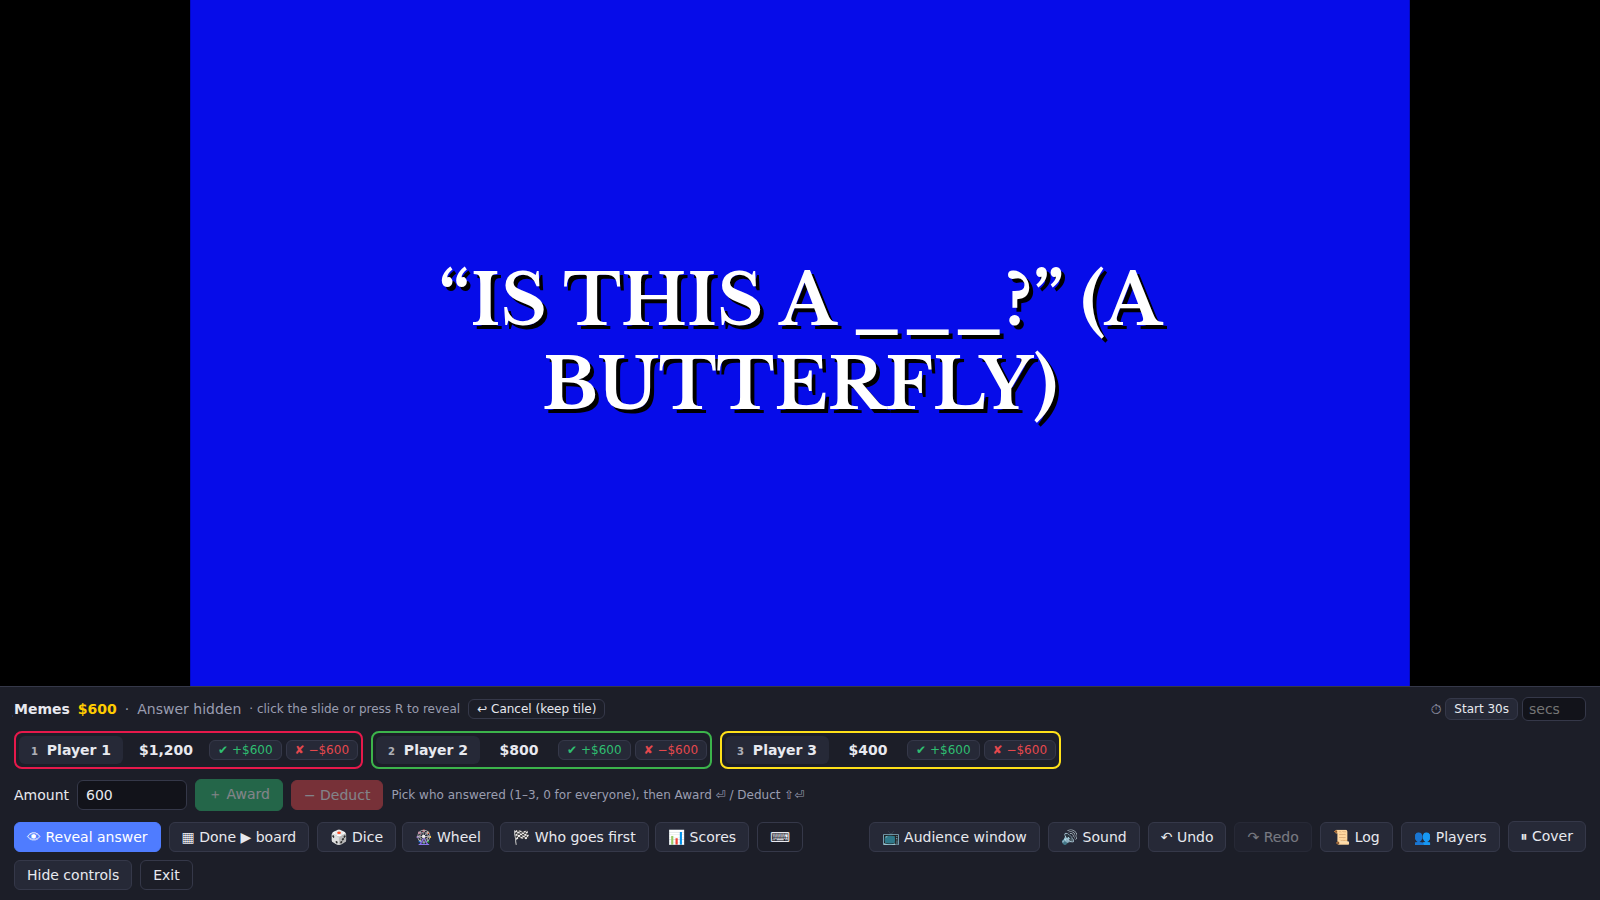
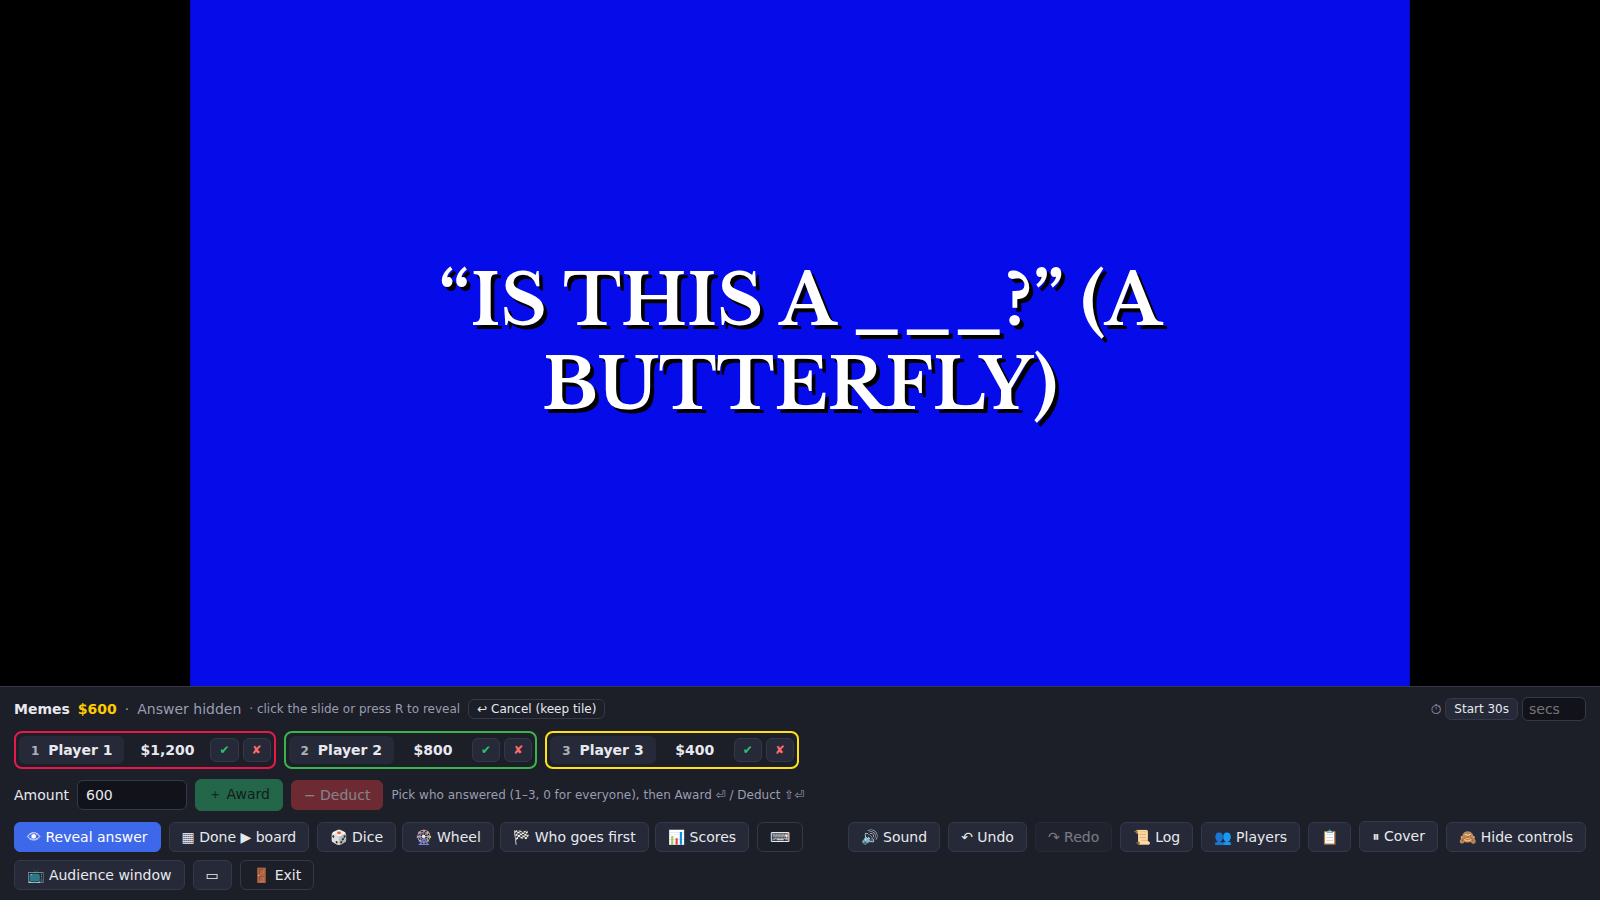
Screenshots: the host panel's 📋 Game rules button; changelog commit hashes
Claude-Session: https://claude.ai/code/session_01Gz5W276C5pKurYPW711L4J

diff --git a/CHANGELOG.md b/CHANGELOG.md
@@ -33,13 +33,13 @@ done, the Unreleased lines move under that day's heading.
 - If the buzzer server turns down a new room, the pre-game card shows its reason in plain words. (9920218)
 - **📋 Game rules mid-game**: a small **📋** next to 👥 Players in the host panel opens the same rules as before the
   game. Changes count at once and are kept with the game in the editor (undoable there). When the game is full,
-  👥 Players offers **Raise Most players to …** next to the greyed-out ＋ Add player.
+  👥 Players offers **Raise Most players to …** next to the greyed-out ＋ Add player. (1d355db)
 - **`Ctrl+Z` / `Ctrl+Y` on the pre-game screen** undo and redo the changes made there (players, rules, buzzers, on
   stream, Daily Doubles placed), the same steps as the editor's 🕘 History, and the list and rules show it at once.
   In a name you've just typed in, `Ctrl+Z` first undoes the typing there, as in the editor. The browser's own undo no
-  longer changes a field behind your back.
+  longer changes a field behind your back. (1d355db)
 - **History's Go there for players and rules**: a step in Play › Players, Game rules, Phone buzzers or On stream now
-  has **Go there**, which opens the ▶ Play screen at that part. (An undo in the editor never starts a game.)
+  has **Go there**, which opens the ▶ Play screen at that part. (An undo in the editor never starts a game.) (1d355db)
 - **The buzzer server limits new rooms**: 6 a minute from one address ("Too many new rooms — wait a minute") and 1000
   a day in all ("The buzzer server is busy today — try again tomorrow"), so nobody can use up its free daily quota.
   (bde9ae8)
@@ -47,13 +47,13 @@ done, the Unreleased lines move under that day's heading.
 ### Changed
 - **The pre-game screen's Start game ▶ and ◀ Back to editor stay at the foot of the window** however long the page
   gets (an open 📋 Game rules fold put Start game far below the fold). On wide screens (1400 px and up) the page is two
-  columns: players and 📱 buzzers on the left; rules, display and on stream on the right.
+  columns: players and 📱 buzzers on the left; rules, display and on stream on the right. (1d355db, 0ab9a9f)
 - **⚙ Game rules is now 📋 Game rules**, so it isn't mixed up with the app's ⚙ Settings next to it. Its fold is a
-  heading of its own (screen readers no longer file the rules under 📱 Phone buzzers).
+  heading of its own (screen readers no longer file the rules under 📱 Phone buzzers). (1d355db)
 - **🔊 Sounds says at the top where the players and rules went**, with a button to the ▶ Play screen (it was a small
-  line at the bottom).
+  line at the bottom). (1d355db, 0ab9a9f)
 - Adding players by typing a name and pressing `Enter`: each player added and named is one step in 🕘 History,
-  called by the name typed ("Added player “Bo”"), and undoing it no longer takes back the name typed before it.
+  called by the name typed ("Added player “Bo”"), and undoing it no longer takes back the name typed before it. (1d355db)
 - **The editor's ⚙ Setup tab is now 🔊 Sounds**, and holds only the sounds. **Players are added on the ▶ Play
   screen** (before the game): add, rename, recolor, pick a picture, reorder and delete them there, and they're kept
   with the game for next time (undoable in the editor's 🕘 History). The rules, timers and round intro moved there
@@ -185,15 +185,15 @@ done, the Unreleased lines move under that day's heading.
 
 ### Fixed
 - **A rematch keeps the players' pictures**, and changing the players before it no longer deletes their pictures from
-  the saved game (a picture now only goes when you take it off with −🖼).
+  the saved game (a picture now only goes when you take it off with −🖼). (1d355db)
 - **A game saved with Buzzer mode on plays without it in a copy that has no buzzer server**: no more "📱 Phones off",
   "🔔 Buzzers open" or ↺ Reset buzzers that can't do anything. The 📱 card says Buzzer mode is off here and you pick
-  who answers; the setting stays with the game.
-- An exported player-only file no longer tells players to look in the editor's ⚙ Settings for a buzzer server.
+  who answers; the setting stays with the game. (1d355db)
+- An exported player-only file no longer tells players to look in the editor's ⚙ Settings for a buzzer server. (1d355db)
 - 📋 Game rules: the default clue countdown is whole seconds, at least 1 (−5 used to show "Start −5s"); blank or 0 is
   none. A game whose Most players was below its player count (an older or hand-edited file: "6/4 players") opens with
-  Most players raised to fit. The Round intro row lines up.
-- The players' ▲/▼ buttons say whose they are ("Move Bo up"), and 🔊 Sounds' ↺ says "Back to the built-in … sound".
+  Most players raised to fit. The Round intro row lines up. (1d355db)
+- The players' ▲/▼ buttons say whose they are ("Move Bo up"), and 🔊 Sounds' ↺ says "Back to the built-in … sound". (1d355db)
 - Later boards no longer keep doubling their values; long category names aren't cut off; the Daily Double count is
   capped at the playable tiles; a blank row value keeps its old value and negatives read −$100; a stat preset can't be
   added twice; focus goes to the new round after ＋ Add round; the rules' checkboxes don't shrink. (46f2a13)
